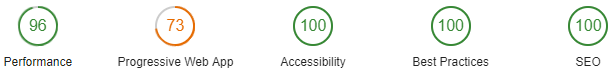
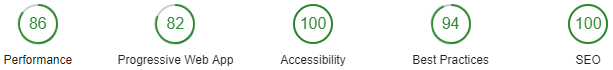
Added angular 5 service worker

diff --git a/server/webpack.config.js b/server/webpack.config.js
@@ -1,22 +1,18 @@
 const path = require('path');
 const webpack = require('webpack');
 
-const { join } = require('path');
-const { ContextReplacementPlugin } = require('webpack');
-
 const CopyWebpackPlugin = require("copy-webpack-plugin");
-const WorkboxPlugin = require('workbox-webpack-plugin');
 
 module.exports = {
     entry: {
-        server: join(__dirname, 'server.ts'),
-        start: join(__dirname, 'start.ts'),
+        server: path.join(__dirname, 'server.ts'),
+        start: path.join(__dirname, 'start.ts'),
     },
     resolve: { extensions: ['.js', '.ts'] },
     target: 'node',
     externals: [/(node_modules|main\..*\.js)/],
     output: {
-        path: join(__dirname, '..', 'dist', 'server'),
+        path: path.join(__dirname, '..', 'dist', 'server'),
         filename: '[name].js'
     },
     module: {
@@ -26,30 +22,21 @@ module.exports = {
         new webpack.NoEmitOnErrorsPlugin(),
         new webpack.DefinePlugin({ "process.env.NODE_ENV": JSON.stringify('production') }),
         new CopyWebpackPlugin([
-            { from: require.resolve('workbox-sw'), to: 'dist/browser/workbox-sw.prod.js' },
             { context: path.join(process.cwd(), "src"), from: { glob: "assets/**/*", dot: true } },
             { context: path.join(process.cwd(), "src"), from: { glob: "favicon.ico", dot: true } },
             { context: path.join(process.cwd(), "src"), from: { glob: "manifest.json", dot: true } },
             { from: "dist/browser/**/*" },
             { from: "dist/server/**/*" }
         ]),
-        new WorkboxPlugin({
-            globDirectory: 'dist/',
-            globPatterns: ['**/*.{js,gz,png,svg,jpg,ico,html,json,map,ttf,woff,woff2}'],
-            globIgnores: ['**/service-worker.js'],
-            swSrc: 'src/service-worker.js',
-            swDest: 'dist/browser/service-worker.js'
-        }),
-        // Temporary Fix for issue: https://github.com/angular/angular/issues/11580
-        // for 'WARNING Critical dependency: the request of a dependency is an expression'
-        new ContextReplacementPlugin(
+        // https://github.com/angular/angular/issues/11580
+        new webpack.ContextReplacementPlugin(
             /(.+)?angular(\\|\/)core(.+)?/,
-            join(__dirname, '..', 'src'), // location of your src
+            path.join(__dirname, '..', 'src'), // location of your src
             {} // a map of your routes
         ),
-        new ContextReplacementPlugin(
+        new webpack.ContextReplacementPlugin(
             /(.+)?express(\\|\/)(.+)?/,
-            join(__dirname, '..', 'src'), {}
+            path.join(__dirname, '..', 'src'), {}
         )
     ]
 };

diff --git a/lambda/webpack.config.js b/lambda/webpack.config.js
@@ -1,10 +1,9 @@
 const path = require('path');
 const webpack = require('webpack');
 
-const serverlessWebpack = require('serverless-webpack');
-
 const CopyWebpackPlugin = require("copy-webpack-plugin");
-const WorkboxPlugin = require('workbox-webpack-plugin');
+
+const serverlessWebpack = require('serverless-webpack');
 
 module.exports = {
     entry: serverlessWebpack.lib.entries,
@@ -27,20 +26,13 @@ module.exports = {
         new webpack.NoEmitOnErrorsPlugin(),
         new webpack.DefinePlugin({ "process.env.NODE_ENV": JSON.stringify('production') }),
         new CopyWebpackPlugin([
-            { from: require.resolve('workbox-sw'), to: 'dist/browser/workbox-sw.prod.js' },
             { context: path.join(process.cwd(), "src"), from: { glob: "assets/**/*", dot: true } },
             { context: path.join(process.cwd(), "src"), from: { glob: "favicon.ico", dot: true } },
             { context: path.join(process.cwd(), "src"), from: { glob: "manifest.json", dot: true } },
             { from: "dist/browser/**/*" },
             { from: "dist/server/**/*" }
         ]),
-        new WorkboxPlugin({
-            globDirectory: 'dist/',
-            globPatterns: ['**/*.{js,gz,png,svg,jpg,ico,html,json,map,ttf,woff,woff2}'],
-            globIgnores: ['**/service-worker.js'],
-            swSrc: 'src/service-worker.js',
-            swDest: 'dist/browser/service-worker.js'
-        }),
+        // https://github.com/angular/angular/issues/11580
         new webpack.ContextReplacementPlugin(
             // fixes WARNING Critical dependency: the request of a dependency is an expression
             /(.+)?angular(\\|\/)core(.+)?/,

diff --git a/server/server.ts b/server/server.ts
@@ -1,5 +1,6 @@
 import 'zone.js/dist/zone-node';
 import 'reflect-metadata';
+
 import * as express from 'express';
 import * as bodyParser from 'body-parser';
 import * as cors from 'cors';
@@ -9,16 +10,16 @@ import * as awsServerlessExpressMiddleware from 'aws-serverless-express/middlewa
 import { join } from 'path';
 import { enableProdMode } from '@angular/core';
 
-import { ngExpressEngine } from '@nguniversal/express-engine';
-
-// Import module map for lazy loading
-import { provideModuleMap } from '@nguniversal/module-map-ngfactory-loader';
+enableProdMode();
+export const app = express();
 
 // * NOTE :: leave this as require() since this file is built Dynamically from webpack
 const { AppServerModuleNgFactory, LAZY_MODULE_MAP } = require('../dist/server/main.bundle');
 
-enableProdMode();
-export const app = express();
+// Express Engine
+import { ngExpressEngine } from '@nguniversal/express-engine';
+// Import module map for lazy loading
+import { provideModuleMap } from '@nguniversal/module-map-ngfactory-loader';
 
 // app.use(compression());
 // app.use(cors());

diff --git a/src/app/app.module.ts b/src/app/app.module.ts
@@ -1,9 +1,10 @@
 import { BrowserModule } from '@angular/platform-browser';
 import { NgModule } from '@angular/core';
 import { RouterModule } from '@angular/router';
-
+import { ServiceWorkerModule } from '@angular/service-worker';
 import { AppComponent } from './app.component';
 import { HomeComponent } from './home/home.component';
+import { environment } from '../environments/environment';
 
 @NgModule({
   declarations: [
@@ -12,6 +13,7 @@ import { HomeComponent } from './home/home.component';
   ],
   imports: [
     BrowserModule.withServerTransition({ appId: 'angular-demo' }),
+    ServiceWorkerModule.register('/ngsw-worker.js', { enabled: environment.production }),
     RouterModule.forRoot([
       { path: '', component: HomeComponent, pathMatch: 'full' },
       { path: 'lazy', loadChildren: './lazy/lazy.module#LazyModule' },
